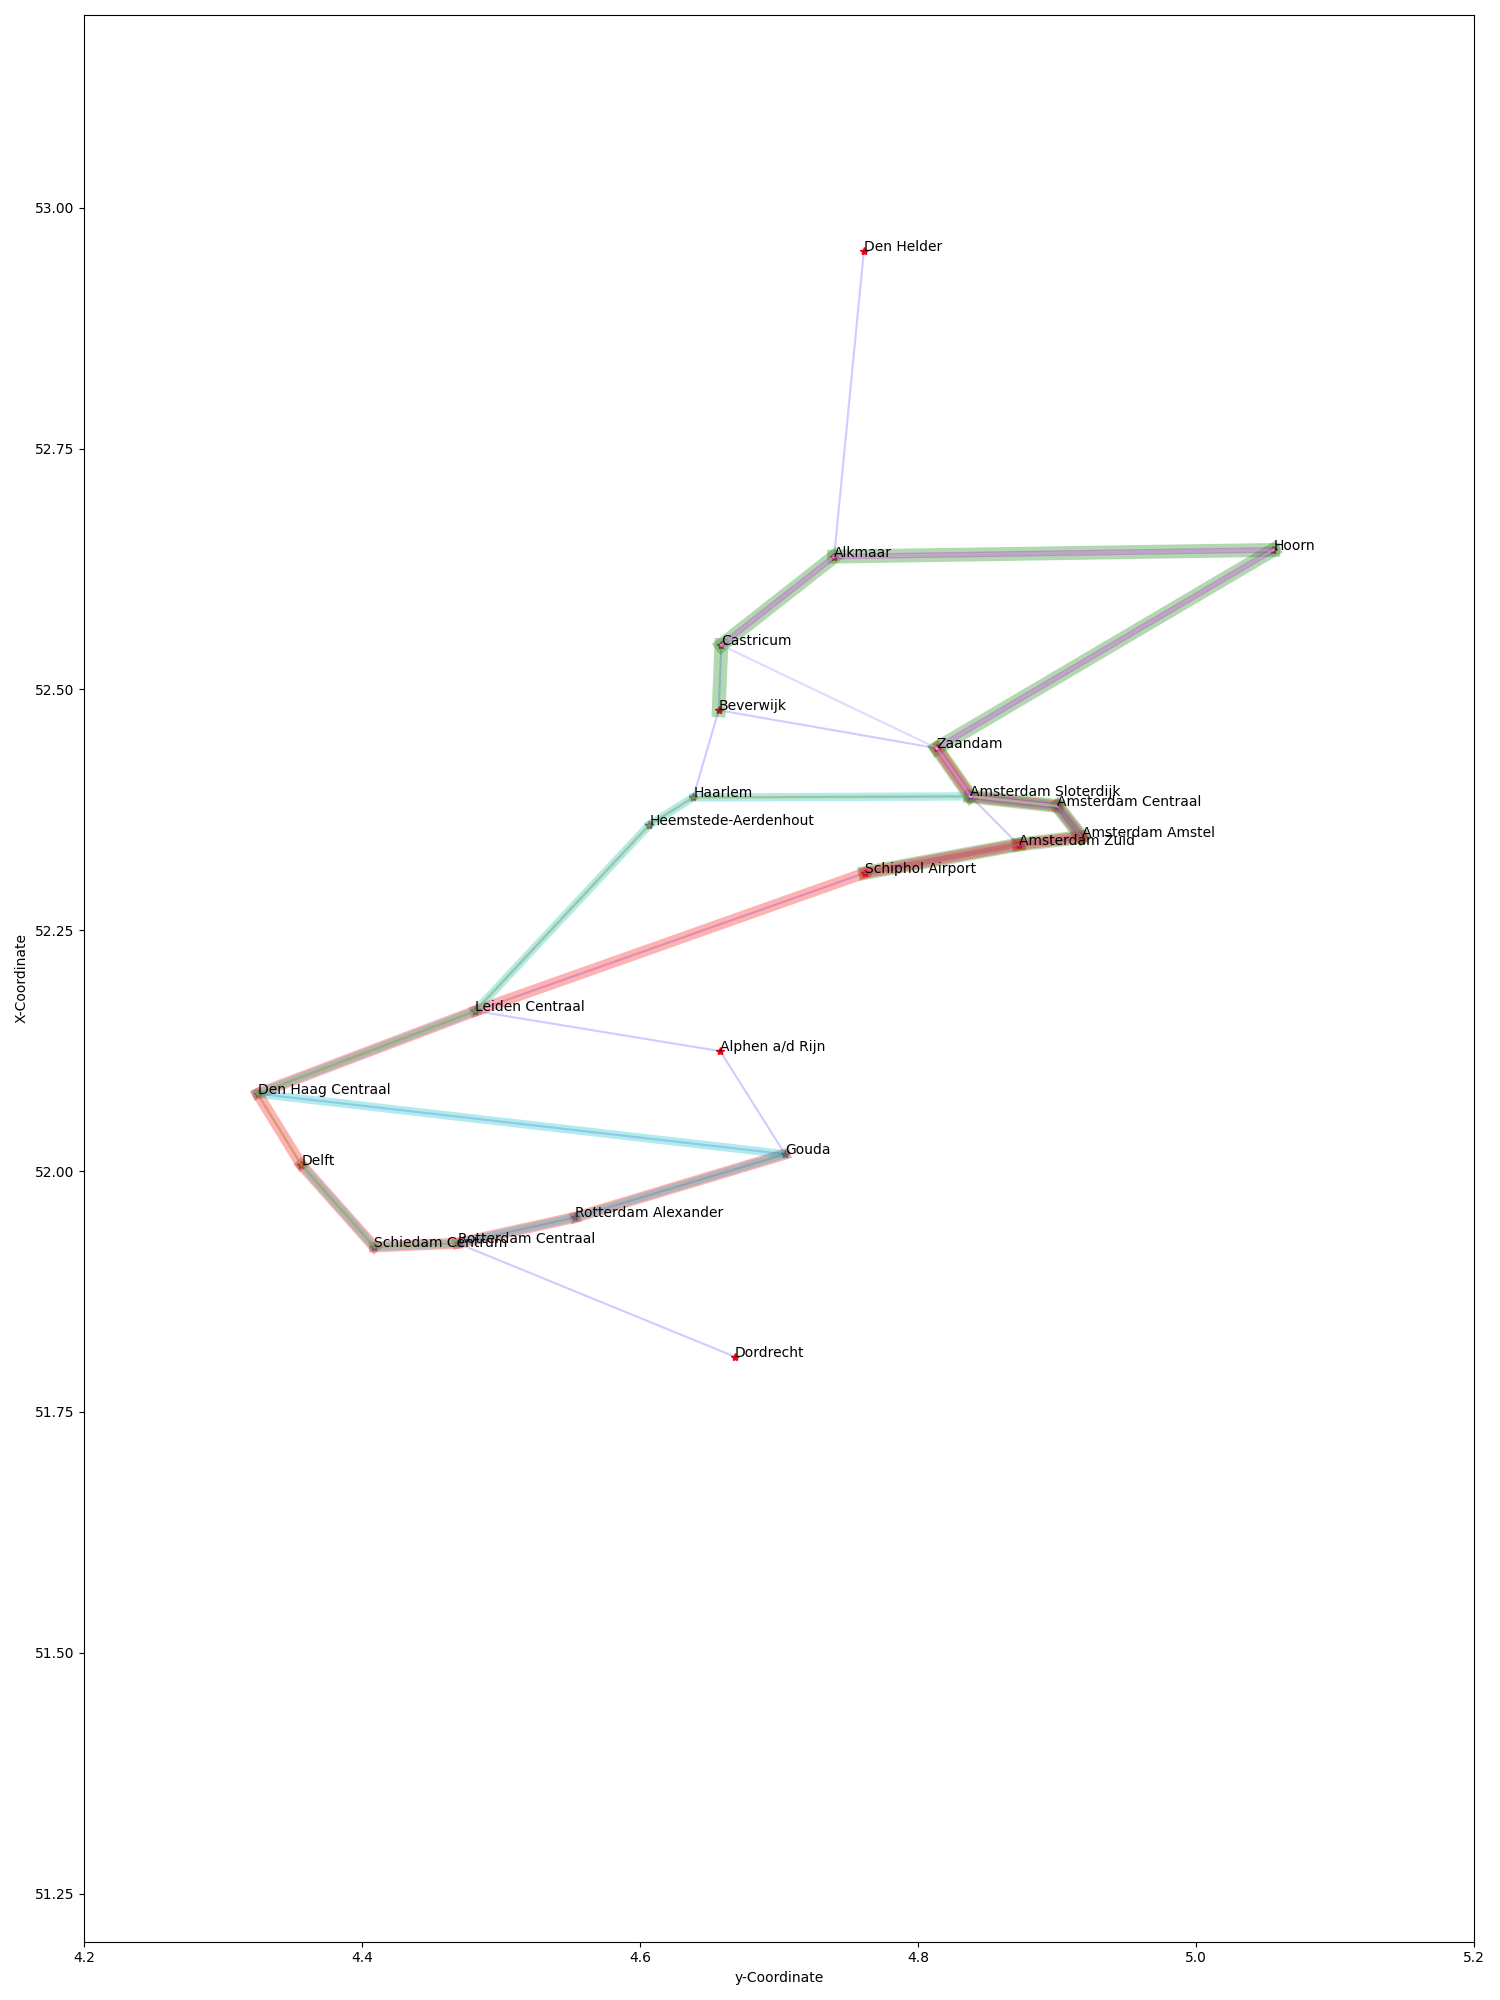
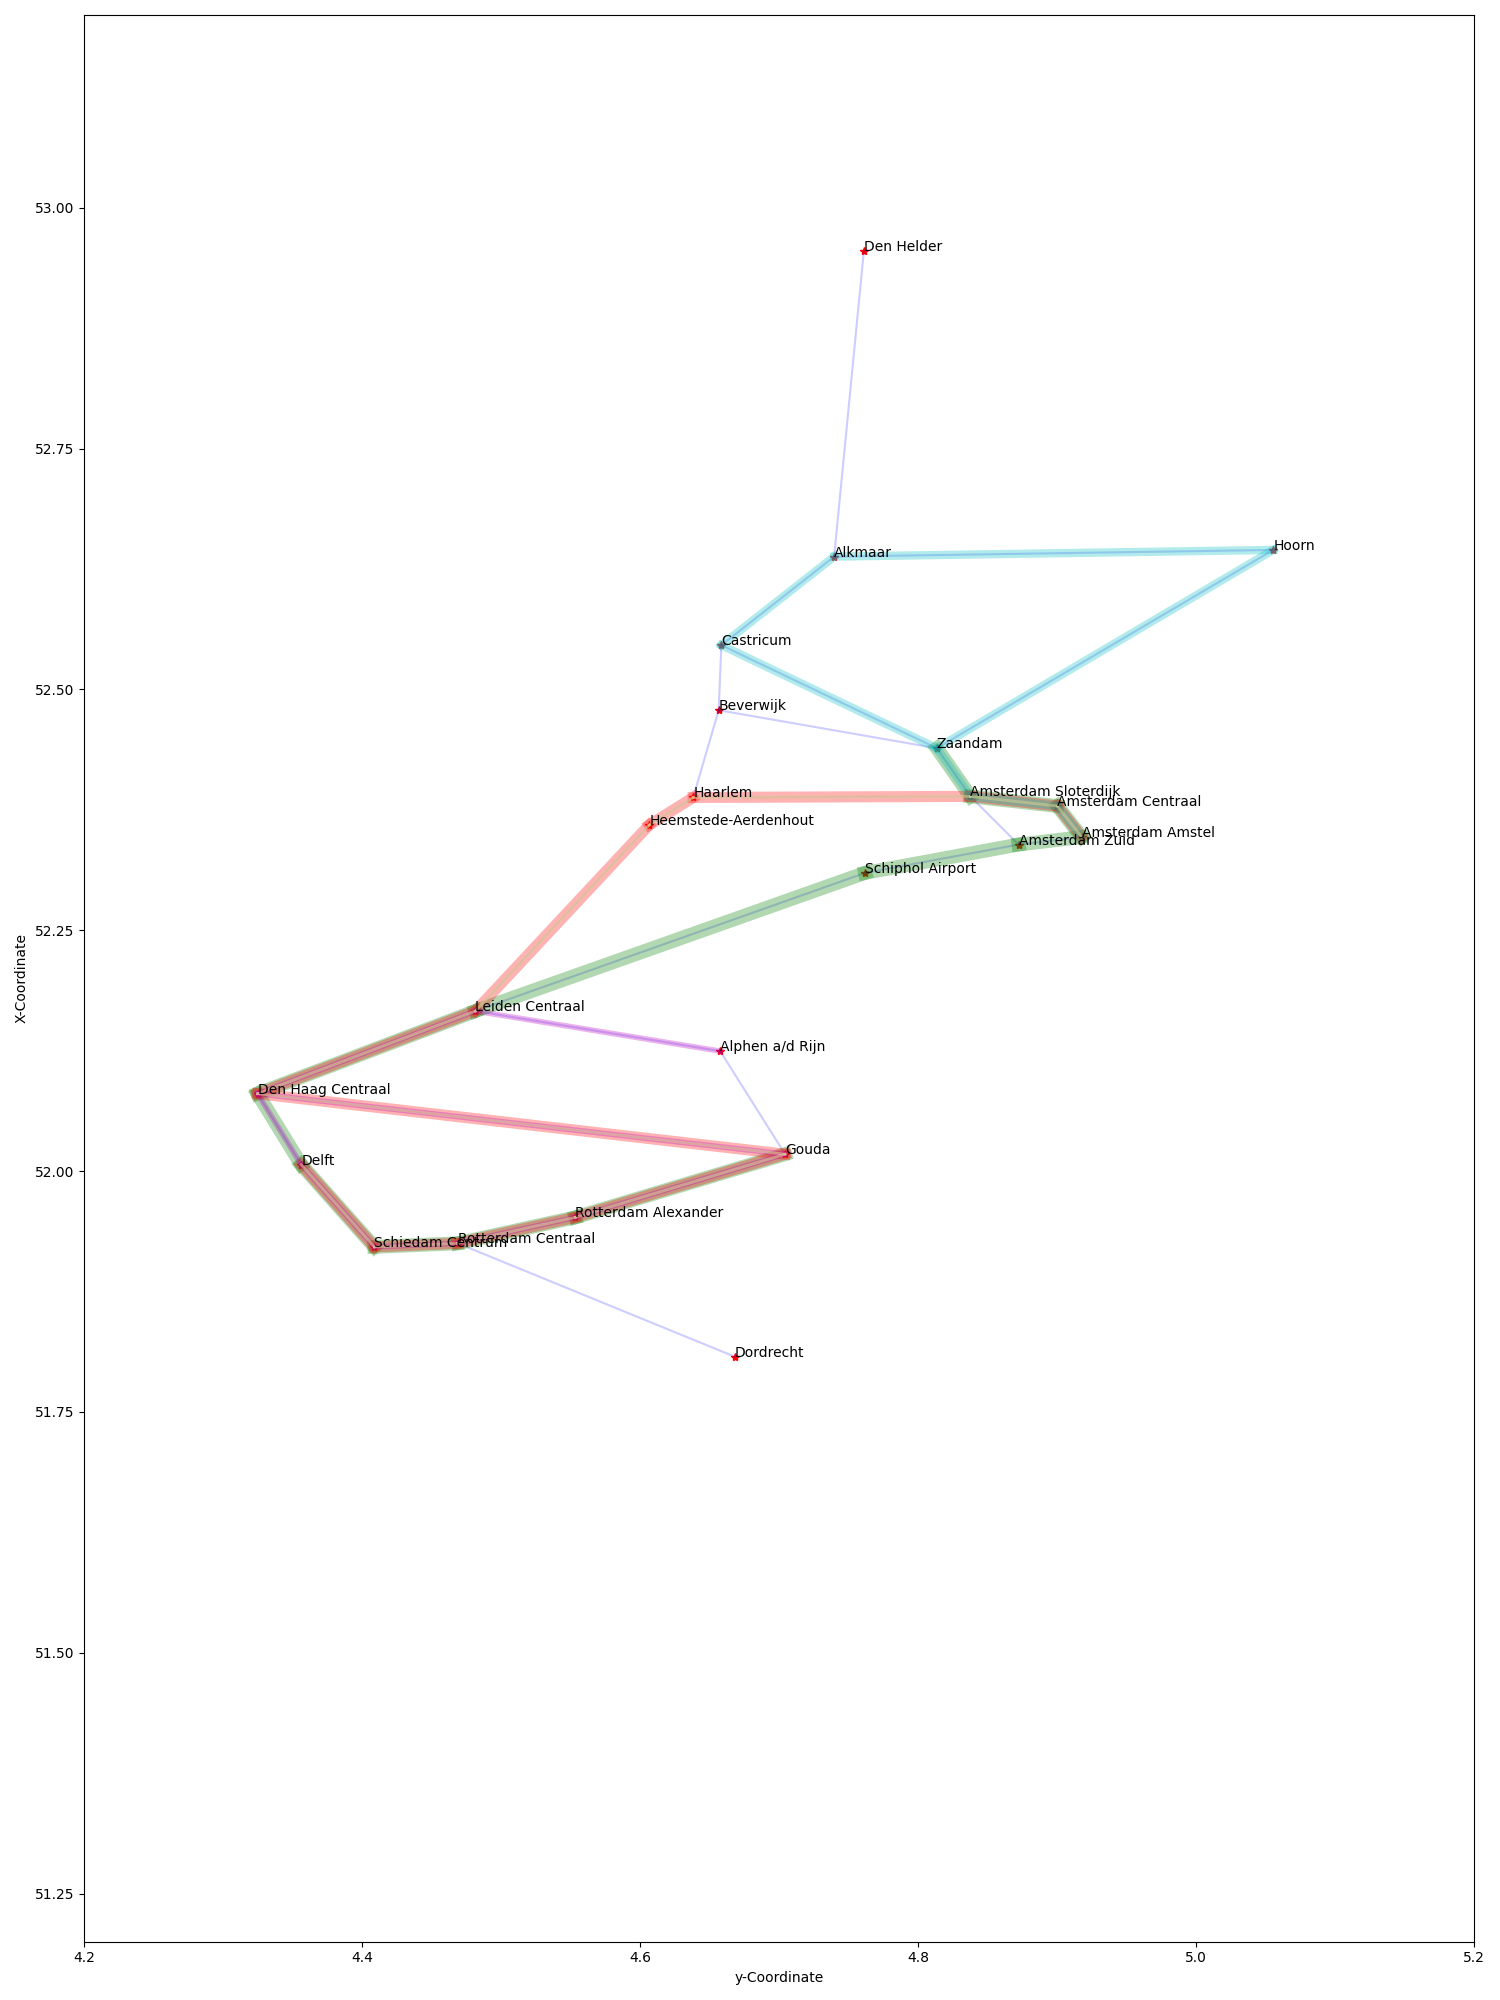
check50

diff --git a/functions/heuristics/random_with_classes.py b/functions/heuristics/random_with_classes.py
@@ -1,5 +1,6 @@
 import random
 import copy
+import csv
 from functions.calculation import calculate_quality
 from visualisation import visualisation
 
@@ -16,17 +17,16 @@ def random_function_classes(graph, MAX_AMOUNT_TRAJECTS, MAX_TIME):
         station = random.choices(list(all_connections.keys()), k=1)[0]
         traject.append(station)
         while total_time < MAX_TIME:
-            #print(f"begin station {station}")
 
             if len(list(copy_connections[station].time.keys())) > 0:
                 next_station = random.choices(list(copy_connections[station].time.keys()), k=1)[0]
             else:
                 break
 
-            total_time += copy_connections[station].time[next_station]
             if (total_time + copy_connections[station].time[next_station]) <= MAX_TIME:
+                print('test')
                 traject.append(next_station)
-
+                total_time += copy_connections[station].time[next_station]
                 copy_connections[station].time.pop(next_station)
                 copy_connections[next_station].time.pop(station)
                 if next_station in list(check_connections_left[station].time.keys()):
@@ -36,10 +36,11 @@ def random_function_classes(graph, MAX_AMOUNT_TRAJECTS, MAX_TIME):
                     check_connections_left[next_station].time.pop(station)
                        
                 station = next_station
-           
-        trajects.append(traject)
+            else:
+                break
         total_time_traject += total_time
-
+        trajects.append(traject)
+        
     total_connections = 0
     for i in all_connections:
         total_connections += len(all_connections[i].time)
@@ -47,7 +48,6 @@ def random_function_classes(graph, MAX_AMOUNT_TRAJECTS, MAX_TIME):
     total_connections = total_connections / 2
 
     connections_left = 0
-
     for i in check_connections_left:
         connections_left += len(check_connections_left[i].time)
 
@@ -55,6 +55,17 @@ def random_function_classes(graph, MAX_AMOUNT_TRAJECTS, MAX_TIME):
 
     amount_of_connections = total_connections - connections_left
     quality = calculate_quality(amount_of_connections, total_connections, total_time_traject, MAX_AMOUNT_TRAJECTS)
-  
+
+    with open('output.csv', 'w') as file:
+        writer = csv.writer(file)
+        header = ['train', 'stations']
+        writer.writerow(header)
+        i = 1
+        for traject in trajects:
+            data = [f"train_{i}", ('[%s]' % ', '.join(map(str, traject)))]
+            i += 1
+            writer.writerow(data)
+        writer.writerow(['score', quality])
+
     #visualisation(graph, trajects, 'random_visualisation.png')
     return quality

diff --git a/visualisation.py b/visualisation.py
@@ -15,7 +15,7 @@ def barplot(results):
     mean = statistics.mean(x_axis)
     sd = statistics.stdev(x_axis)
     
-    plot1 = plt.figure(0)
+    plt.figure(0)
     plt.axis([2500, 10000, 0, 0.0005])
     #plt.text(mean: , x, s)
     plt.plot(x_axis, norm.pdf(x_axis, mean, sd))
@@ -37,7 +37,7 @@ def visualisation(graph, trajects, filename):
     plt.xlabel("y-Coordinate")
     plt.ylabel("X-Coordinate")
 
-    plot2 = plt.figure(1)
+    plt.figure(1)
     plt.plot(y, x, 'r*')
     plt.axis([4.2, 5.2, 51.2, 53.2])
 
@@ -65,12 +65,8 @@ def visualisation(graph, trajects, filename):
             i += 1
         linewidth -= 2
 
-
-    
-
     for y, x, s in zip(y, x, name_stations):
         plt.text(y, x, s)
-
 
     plt.savefig(filename)
 

diff --git a/main.py b/main.py
@@ -22,7 +22,7 @@ def main (input_file_name, algorithm, iteration):
         MAX_AMOUNT_TRAJECTS = 20
         MAX_TIME = 180
     
-    print(greedy_time(station_graph, MAX_AMOUNT_TRAJECTS, MAX_TIME))
+    # print(greedy_time(station_graph, MAX_AMOUNT_TRAJECTS, MAX_TIME))
     results = []
     # Determine which algorithm to use based on the user input
     for i in range(iteration):
